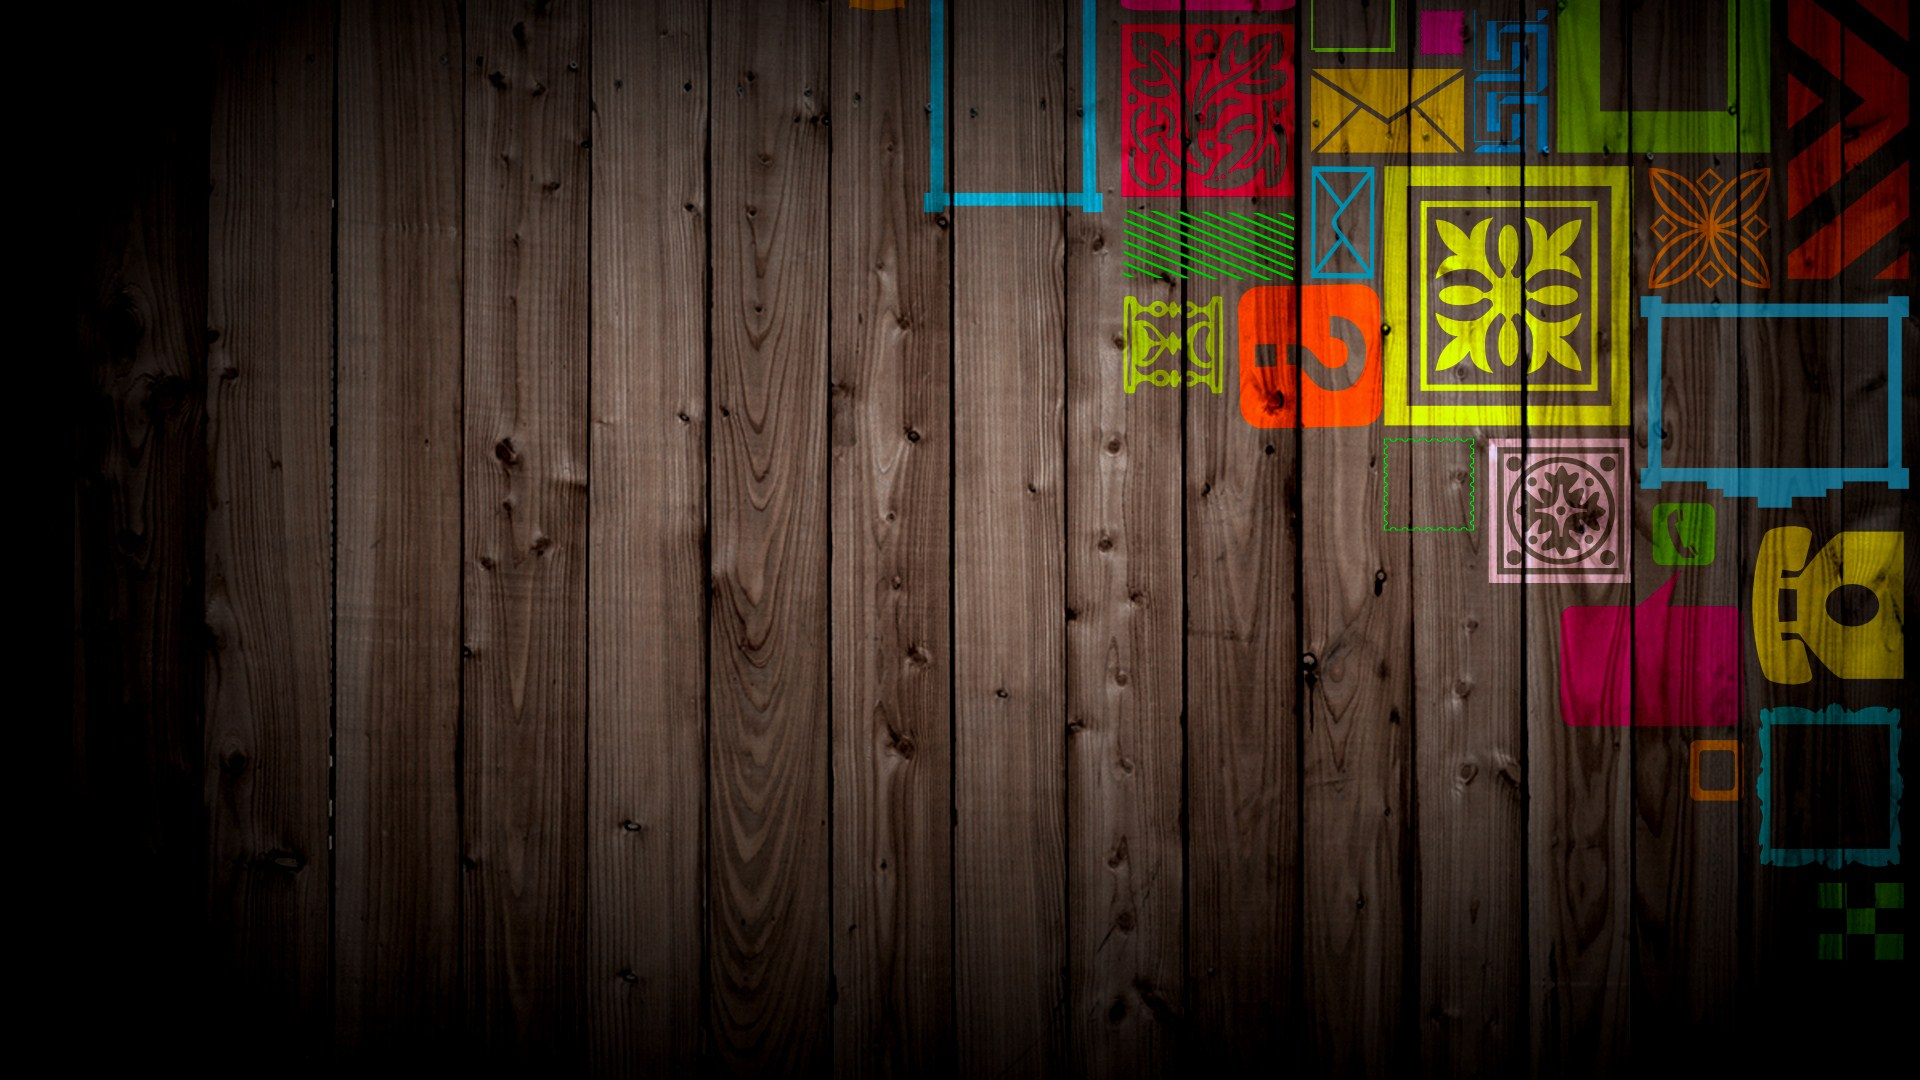
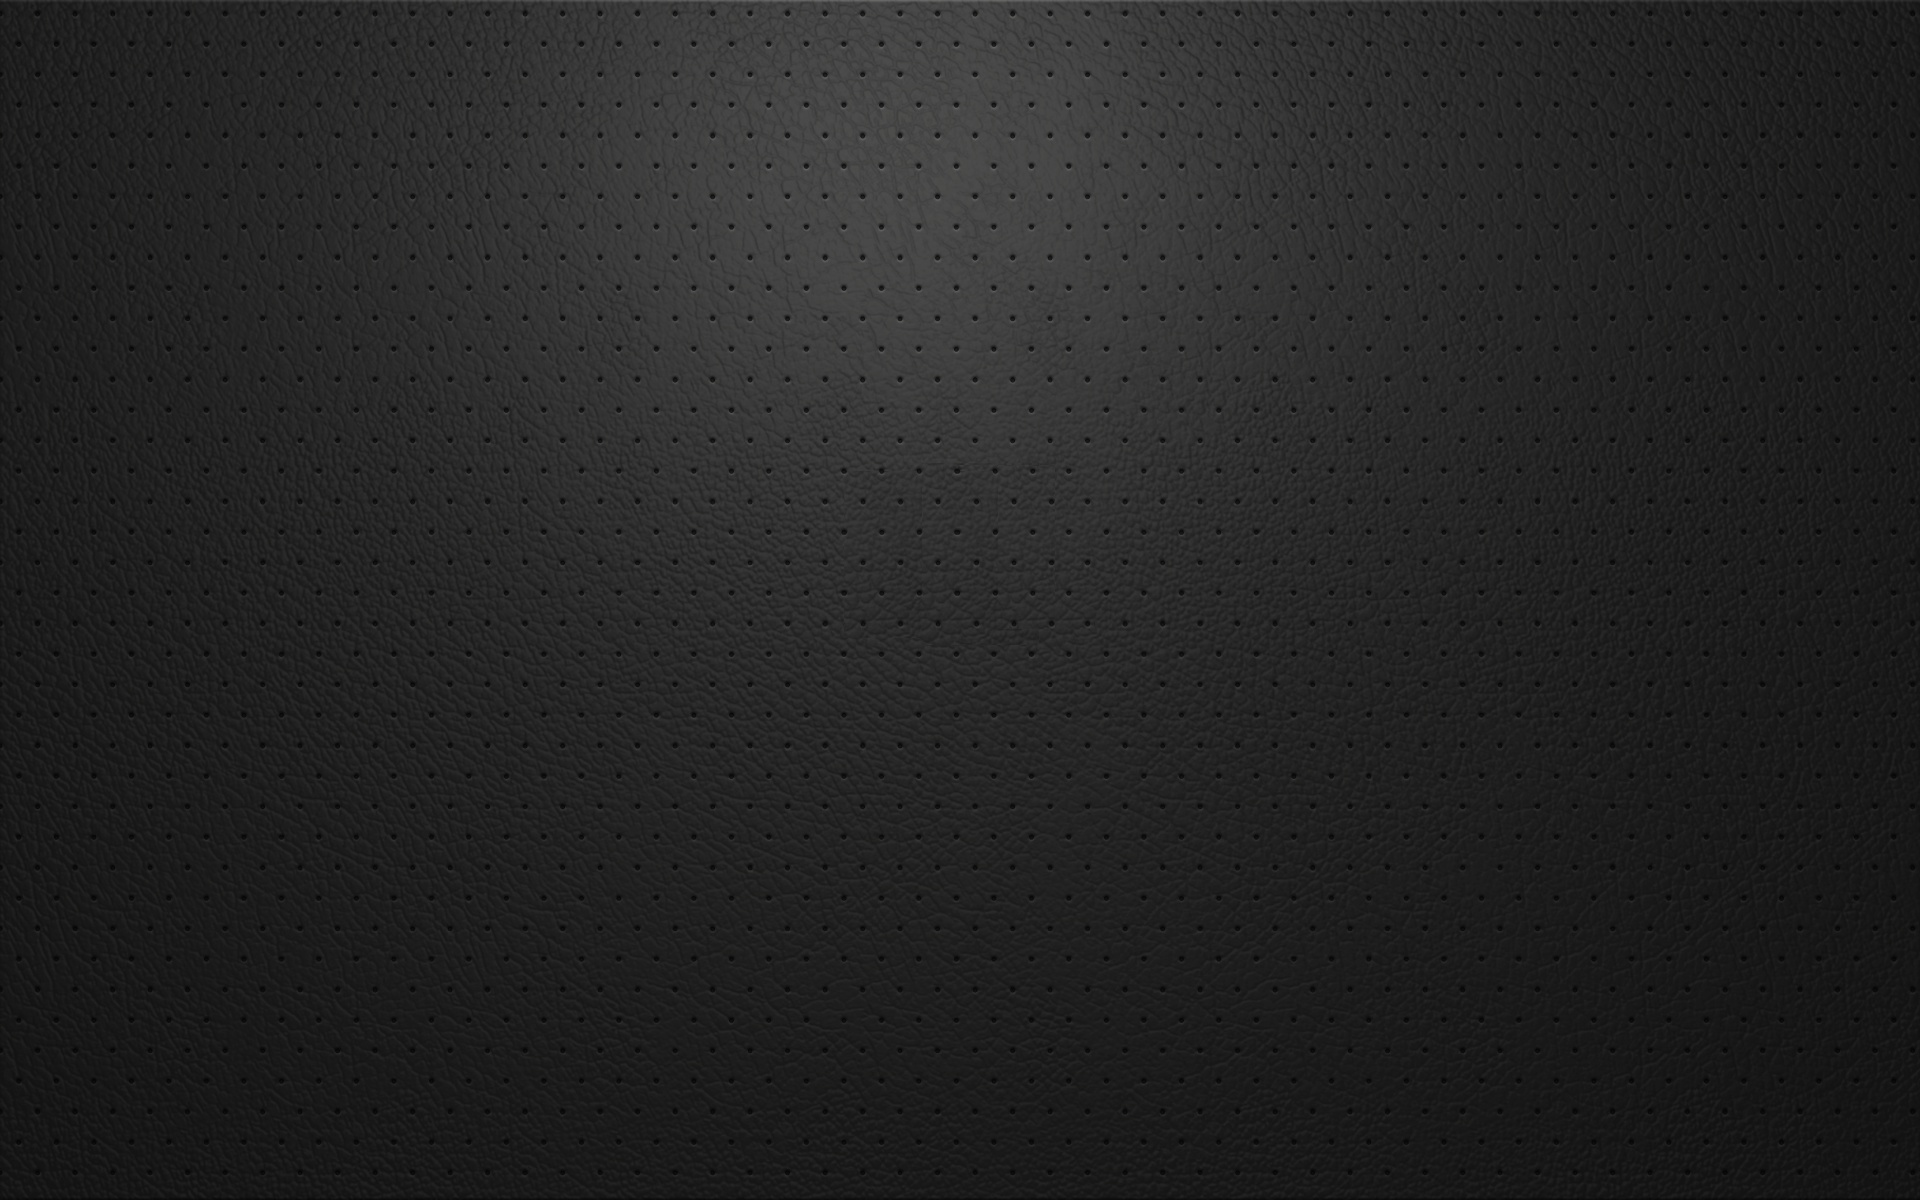
body background changes

diff --git a/js/jquery-ui.min.js b/js/jquery-ui.min.js
@@ -1,0 +1,6 @@
+/*! jQuery UI - v1.11.4 - 2016-01-11
+* http://jqueryui.com
+* Includes: effect.js, effect-bounce.js
+* Copyright jQuery Foundation and other contributors; Licensed MIT */
+
+(function(e){"function"==typeof define&&define.amd?define(["jquery"],e):e(jQuery)})(function(e){var t="ui-effects-",i=e;e.effects={effect:{}},function(e,t){function i(e,t,i){var s=d[t.type]||{};return null==e?i||!t.def?null:t.def:(e=s.floor?~~e:parseFloat(e),isNaN(e)?t.def:s.mod?(e+s.mod)%s.mod:0>e?0:e>s.max?s.max:e)}function s(i){var s=l(),n=s._rgba=[];return i=i.toLowerCase(),f(h,function(e,a){var o,r=a.re.exec(i),h=r&&a.parse(r),l=a.space||"rgba";return h?(o=s[l](h),s[u[l].cache]=o[u[l].cache],n=s._rgba=o._rgba,!1):t}),n.length?("0,0,0,0"===n.join()&&e.extend(n,a.transparent),s):a[i]}function n(e,t,i){return i=(i+1)%1,1>6*i?e+6*(t-e)*i:1>2*i?t:2>3*i?e+6*(t-e)*(2/3-i):e}var a,o="backgroundColor borderBottomColor borderLeftColor borderRightColor borderTopColor color columnRuleColor outlineColor textDecorationColor textEmphasisColor",r=/^([\-+])=\s*(\d+\.?\d*)/,h=[{re:/rgba?\(\s*(\d{1,3})\s*,\s*(\d{1,3})\s*,\s*(\d{1,3})\s*(?:,\s*(\d?(?:\.\d+)?)\s*)?\)/,parse:function(e){return[e[1],e[2],e[3],e[4]]}},{re:/rgba?\(\s*(\d+(?:\.\d+)?)\%\s*,\s*(\d+(?:\.\d+)?)\%\s*,\s*(\d+(?:\.\d+)?)\%\s*(?:,\s*(\d?(?:\.\d+)?)\s*)?\)/,parse:function(e){return[2.55*e[1],2.55*e[2],2.55*e[3],e[4]]}},{re:/#([a-f0-9]{2})([a-f0-9]{2})([a-f0-9]{2})/,parse:function(e){return[parseInt(e[1],16),parseInt(e[2],16),parseInt(e[3],16)]}},{re:/#([a-f0-9])([a-f0-9])([a-f0-9])/,parse:function(e){return[parseInt(e[1]+e[1],16),parseInt(e[2]+e[2],16),parseInt(e[3]+e[3],16)]}},{re:/hsla?\(\s*(\d+(?:\.\d+)?)\s*,\s*(\d+(?:\.\d+)?)\%\s*,\s*(\d+(?:\.\d+)?)\%\s*(?:,\s*(\d?(?:\.\d+)?)\s*)?\)/,space:"hsla",parse:function(e){return[e[1],e[2]/100,e[3]/100,e[4]]}}],l=e.Color=function(t,i,s,n){return new e.Color.fn.parse(t,i,s,n)},u={rgba:{props:{red:{idx:0,type:"byte"},green:{idx:1,type:"byte"},blue:{idx:2,type:"byte"}}},hsla:{props:{hue:{idx:0,type:"degrees"},saturation:{idx:1,type:"percent"},lightness:{idx:2,type:"percent"}}}},d={"byte":{floor:!0,max:255},percent:{max:1},degrees:{mod:360,floor:!0}},c=l.support={},p=e("<p>")[0],f=e.each;p.style.cssText="background-color:rgba(1,1,1,.5)",c.rgba=p.style.backgroundColor.indexOf("rgba")>-1,f(u,function(e,t){t.cache="_"+e,t.props.alpha={idx:3,type:"percent",def:1}}),l.fn=e.extend(l.prototype,{parse:function(n,o,r,h){if(n===t)return this._rgba=[null,null,null,null],this;(n.jquery||n.nodeType)&&(n=e(n).css(o),o=t);var d=this,c=e.type(n),p=this._rgba=[];return o!==t&&(n=[n,o,r,h],c="array"),"string"===c?this.parse(s(n)||a._default):"array"===c?(f(u.rgba.props,function(e,t){p[t.idx]=i(n[t.idx],t)}),this):"object"===c?(n instanceof l?f(u,function(e,t){n[t.cache]&&(d[t.cache]=n[t.cache].slice())}):f(u,function(t,s){var a=s.cache;f(s.props,function(e,t){if(!d[a]&&s.to){if("alpha"===e||null==n[e])return;d[a]=s.to(d._rgba)}d[a][t.idx]=i(n[e],t,!0)}),d[a]&&0>e.inArray(null,d[a].slice(0,3))&&(d[a][3]=1,s.from&&(d._rgba=s.from(d[a])))}),this):t},is:function(e){var i=l(e),s=!0,n=this;return f(u,function(e,a){var o,r=i[a.cache];return r&&(o=n[a.cache]||a.to&&a.to(n._rgba)||[],f(a.props,function(e,i){return null!=r[i.idx]?s=r[i.idx]===o[i.idx]:t})),s}),s},_space:function(){var e=[],t=this;return f(u,function(i,s){t[s.cache]&&e.push(i)}),e.pop()},transition:function(e,t){var s=l(e),n=s._space(),a=u[n],o=0===this.alpha()?l("transparent"):this,r=o[a.cache]||a.to(o._rgba),h=r.slice();return s=s[a.cache],f(a.props,function(e,n){var a=n.idx,o=r[a],l=s[a],u=d[n.type]||{};null!==l&&(null===o?h[a]=l:(u.mod&&(l-o>u.mod/2?o+=u.mod:o-l>u.mod/2&&(o-=u.mod)),h[a]=i((l-o)*t+o,n)))}),this[n](h)},blend:function(t){if(1===this._rgba[3])return this;var i=this._rgba.slice(),s=i.pop(),n=l(t)._rgba;return l(e.map(i,function(e,t){return(1-s)*n[t]+s*e}))},toRgbaString:function(){var t="rgba(",i=e.map(this._rgba,function(e,t){return null==e?t>2?1:0:e});return 1===i[3]&&(i.pop(),t="rgb("),t+i.join()+")"},toHslaString:function(){var t="hsla(",i=e.map(this.hsla(),function(e,t){return null==e&&(e=t>2?1:0),t&&3>t&&(e=Math.round(100*e)+"%"),e});return 1===i[3]&&(i.pop(),t="hsl("),t+i.join()+")"},toHexString:function(t){var i=this._rgba.slice(),s=i.pop();return t&&i.push(~~(255*s)),"#"+e.map(i,function(e){return e=(e||0).toString(16),1===e.length?"0"+e:e}).join("")},toString:function(){return 0===this._rgba[3]?"transparent":this.toRgbaString()}}),l.fn.parse.prototype=l.fn,u.hsla.to=function(e){if(null==e[0]||null==e[1]||null==e[2])return[null,null,null,e[3]];var t,i,s=e[0]/255,n=e[1]/255,a=e[2]/255,o=e[3],r=Math.max(s,n,a),h=Math.min(s,n,a),l=r-h,u=r+h,d=.5*u;return t=h===r?0:s===r?60*(n-a)/l+360:n===r?60*(a-s)/l+120:60*(s-n)/l+240,i=0===l?0:.5>=d?l/u:l/(2-u),[Math.round(t)%360,i,d,null==o?1:o]},u.hsla.from=function(e){if(null==e[0]||null==e[1]||null==e[2])return[null,null,null,e[3]];var t=e[0]/360,i=e[1],s=e[2],a=e[3],o=.5>=s?s*(1+i):s+i-s*i,r=2*s-o;return[Math.round(255*n(r,o,t+1/3)),Math.round(255*n(r,o,t)),Math.round(255*n(r,o,t-1/3)),a]},f(u,function(s,n){var a=n.props,o=n.cache,h=n.to,u=n.from;l.fn[s]=function(s){if(h&&!this[o]&&(this[o]=h(this._rgba)),s===t)return this[o].slice();var n,r=e.type(s),d="array"===r||"object"===r?s:arguments,c=this[o].slice();return f(a,function(e,t){var s=d["object"===r?e:t.idx];null==s&&(s=c[t.idx]),c[t.idx]=i(s,t)}),u?(n=l(u(c)),n[o]=c,n):l(c)},f(a,function(t,i){l.fn[t]||(l.fn[t]=function(n){var a,o=e.type(n),h="alpha"===t?this._hsla?"hsla":"rgba":s,l=this[h](),u=l[i.idx];return"undefined"===o?u:("function"===o&&(n=n.call(this,u),o=e.type(n)),null==n&&i.empty?this:("string"===o&&(a=r.exec(n),a&&(n=u+parseFloat(a[2])*("+"===a[1]?1:-1))),l[i.idx]=n,this[h](l)))})})}),l.hook=function(t){var i=t.split(" ");f(i,function(t,i){e.cssHooks[i]={set:function(t,n){var a,o,r="";if("transparent"!==n&&("string"!==e.type(n)||(a=s(n)))){if(n=l(a||n),!c.rgba&&1!==n._rgba[3]){for(o="backgroundColor"===i?t.parentNode:t;(""===r||"transparent"===r)&&o&&o.style;)try{r=e.css(o,"backgroundColor"),o=o.parentNode}catch(h){}n=n.blend(r&&"transparent"!==r?r:"_default")}n=n.toRgbaString()}try{t.style[i]=n}catch(h){}}},e.fx.step[i]=function(t){t.colorInit||(t.start=l(t.elem,i),t.end=l(t.end),t.colorInit=!0),e.cssHooks[i].set(t.elem,t.start.transition(t.end,t.pos))}})},l.hook(o),e.cssHooks.borderColor={expand:function(e){var t={};return f(["Top","Right","Bottom","Left"],function(i,s){t["border"+s+"Color"]=e}),t}},a=e.Color.names={aqua:"#00ffff",black:"#000000",blue:"#0000ff",fuchsia:"#ff00ff",gray:"#808080",green:"#008000",lime:"#00ff00",maroon:"#800000",navy:"#000080",olive:"#808000",purple:"#800080",red:"#ff0000",silver:"#c0c0c0",teal:"#008080",white:"#ffffff",yellow:"#ffff00",transparent:[null,null,null,0],_default:"#ffffff"}}(i),function(){function t(t){var i,s,n=t.ownerDocument.defaultView?t.ownerDocument.defaultView.getComputedStyle(t,null):t.currentStyle,a={};if(n&&n.length&&n[0]&&n[n[0]])for(s=n.length;s--;)i=n[s],"string"==typeof n[i]&&(a[e.camelCase(i)]=n[i]);else for(i in n)"string"==typeof n[i]&&(a[i]=n[i]);return a}function s(t,i){var s,n,o={};for(s in i)n=i[s],t[s]!==n&&(a[s]||(e.fx.step[s]||!isNaN(parseFloat(n)))&&(o[s]=n));return o}var n=["add","remove","toggle"],a={border:1,borderBottom:1,borderColor:1,borderLeft:1,borderRight:1,borderTop:1,borderWidth:1,margin:1,padding:1};e.each(["borderLeftStyle","borderRightStyle","borderBottomStyle","borderTopStyle"],function(t,s){e.fx.step[s]=function(e){("none"!==e.end&&!e.setAttr||1===e.pos&&!e.setAttr)&&(i.style(e.elem,s,e.end),e.setAttr=!0)}}),e.fn.addBack||(e.fn.addBack=function(e){return this.add(null==e?this.prevObject:this.prevObject.filter(e))}),e.effects.animateClass=function(i,a,o,r){var h=e.speed(a,o,r);return this.queue(function(){var a,o=e(this),r=o.attr("class")||"",l=h.children?o.find("*").addBack():o;l=l.map(function(){var i=e(this);return{el:i,start:t(this)}}),a=function(){e.each(n,function(e,t){i[t]&&o[t+"Class"](i[t])})},a(),l=l.map(function(){return this.end=t(this.el[0]),this.diff=s(this.start,this.end),this}),o.attr("class",r),l=l.map(function(){var t=this,i=e.Deferred(),s=e.extend({},h,{queue:!1,complete:function(){i.resolve(t)}});return this.el.animate(this.diff,s),i.promise()}),e.when.apply(e,l.get()).done(function(){a(),e.each(arguments,function(){var t=this.el;e.each(this.diff,function(e){t.css(e,"")})}),h.complete.call(o[0])})})},e.fn.extend({addClass:function(t){return function(i,s,n,a){return s?e.effects.animateClass.call(this,{add:i},s,n,a):t.apply(this,arguments)}}(e.fn.addClass),removeClass:function(t){return function(i,s,n,a){return arguments.length>1?e.effects.animateClass.call(this,{remove:i},s,n,a):t.apply(this,arguments)}}(e.fn.removeClass),toggleClass:function(t){return function(i,s,n,a,o){return"boolean"==typeof s||void 0===s?n?e.effects.animateClass.call(this,s?{add:i}:{remove:i},n,a,o):t.apply(this,arguments):e.effects.animateClass.call(this,{toggle:i},s,n,a)}}(e.fn.toggleClass),switchClass:function(t,i,s,n,a){return e.effects.animateClass.call(this,{add:i,remove:t},s,n,a)}})}(),function(){function i(t,i,s,n){return e.isPlainObject(t)&&(i=t,t=t.effect),t={effect:t},null==i&&(i={}),e.isFunction(i)&&(n=i,s=null,i={}),("number"==typeof i||e.fx.speeds[i])&&(n=s,s=i,i={}),e.isFunction(s)&&(n=s,s=null),i&&e.extend(t,i),s=s||i.duration,t.duration=e.fx.off?0:"number"==typeof s?s:s in e.fx.speeds?e.fx.speeds[s]:e.fx.speeds._default,t.complete=n||i.complete,t}function s(t){return!t||"number"==typeof t||e.fx.speeds[t]?!0:"string"!=typeof t||e.effects.effect[t]?e.isFunction(t)?!0:"object"!=typeof t||t.effect?!1:!0:!0}e.extend(e.effects,{version:"1.11.4",save:function(e,i){for(var s=0;i.length>s;s++)null!==i[s]&&e.data(t+i[s],e[0].style[i[s]])},restore:function(e,i){var s,n;for(n=0;i.length>n;n++)null!==i[n]&&(s=e.data(t+i[n]),void 0===s&&(s=""),e.css(i[n],s))},setMode:function(e,t){return"toggle"===t&&(t=e.is(":hidden")?"show":"hide"),t},getBaseline:function(e,t){var i,s;switch(e[0]){case"top":i=0;break;case"middle":i=.5;break;case"bottom":i=1;break;default:i=e[0]/t.height}switch(e[1]){case"left":s=0;break;case"center":s=.5;break;case"right":s=1;break;default:s=e[1]/t.width}return{x:s,y:i}},createWrapper:function(t){if(t.parent().is(".ui-effects-wrapper"))return t.parent();var i={width:t.outerWidth(!0),height:t.outerHeight(!0),"float":t.css("float")},s=e("<div></div>").addClass("ui-effects-wrapper").css({fontSize:"100%",background:"transparent",border:"none",margin:0,padding:0}),n={width:t.width(),height:t.height()},a=document.activeElement;try{a.id}catch(o){a=document.body}return t.wrap(s),(t[0]===a||e.contains(t[0],a))&&e(a).focus(),s=t.parent(),"static"===t.css("position")?(s.css({position:"relative"}),t.css({position:"relative"})):(e.extend(i,{position:t.css("position"),zIndex:t.css("z-index")}),e.each(["top","left","bottom","right"],function(e,s){i[s]=t.css(s),isNaN(parseInt(i[s],10))&&(i[s]="auto")}),t.css({position:"relative",top:0,left:0,right:"auto",bottom:"auto"})),t.css(n),s.css(i).show()},removeWrapper:function(t){var i=document.activeElement;return t.parent().is(".ui-effects-wrapper")&&(t.parent().replaceWith(t),(t[0]===i||e.contains(t[0],i))&&e(i).focus()),t},setTransition:function(t,i,s,n){return n=n||{},e.each(i,function(e,i){var a=t.cssUnit(i);a[0]>0&&(n[i]=a[0]*s+a[1])}),n}}),e.fn.extend({effect:function(){function t(t){function i(){e.isFunction(a)&&a.call(n[0]),e.isFunction(t)&&t()}var n=e(this),a=s.complete,r=s.mode;(n.is(":hidden")?"hide"===r:"show"===r)?(n[r](),i()):o.call(n[0],s,i)}var s=i.apply(this,arguments),n=s.mode,a=s.queue,o=e.effects.effect[s.effect];return e.fx.off||!o?n?this[n](s.duration,s.complete):this.each(function(){s.complete&&s.complete.call(this)}):a===!1?this.each(t):this.queue(a||"fx",t)},show:function(e){return function(t){if(s(t))return e.apply(this,arguments);var n=i.apply(this,arguments);return n.mode="show",this.effect.call(this,n)}}(e.fn.show),hide:function(e){return function(t){if(s(t))return e.apply(this,arguments);var n=i.apply(this,arguments);return n.mode="hide",this.effect.call(this,n)}}(e.fn.hide),toggle:function(e){return function(t){if(s(t)||"boolean"==typeof t)return e.apply(this,arguments);var n=i.apply(this,arguments);return n.mode="toggle",this.effect.call(this,n)}}(e.fn.toggle),cssUnit:function(t){var i=this.css(t),s=[];return e.each(["em","px","%","pt"],function(e,t){i.indexOf(t)>0&&(s=[parseFloat(i),t])}),s}})}(),function(){var t={};e.each(["Quad","Cubic","Quart","Quint","Expo"],function(e,i){t[i]=function(t){return Math.pow(t,e+2)}}),e.extend(t,{Sine:function(e){return 1-Math.cos(e*Math.PI/2)},Circ:function(e){return 1-Math.sqrt(1-e*e)},Elastic:function(e){return 0===e||1===e?e:-Math.pow(2,8*(e-1))*Math.sin((80*(e-1)-7.5)*Math.PI/15)},Back:function(e){return e*e*(3*e-2)},Bounce:function(e){for(var t,i=4;((t=Math.pow(2,--i))-1)/11>e;);return 1/Math.pow(4,3-i)-7.5625*Math.pow((3*t-2)/22-e,2)}}),e.each(t,function(t,i){e.easing["easeIn"+t]=i,e.easing["easeOut"+t]=function(e){return 1-i(1-e)},e.easing["easeInOut"+t]=function(e){return.5>e?i(2*e)/2:1-i(-2*e+2)/2}})}(),e.effects,e.effects.effect.bounce=function(t,i){var s,n,a,o=e(this),r=["position","top","bottom","left","right","height","width"],h=e.effects.setMode(o,t.mode||"effect"),l="hide"===h,u="show"===h,d=t.direction||"up",c=t.distance,p=t.times||5,f=2*p+(u||l?1:0),m=t.duration/f,g=t.easing,v="up"===d||"down"===d?"top":"left",y="up"===d||"left"===d,b=o.queue(),_=b.length;for((u||l)&&r.push("opacity"),e.effects.save(o,r),o.show(),e.effects.createWrapper(o),c||(c=o["top"===v?"outerHeight":"outerWidth"]()/3),u&&(a={opacity:1},a[v]=0,o.css("opacity",0).css(v,y?2*-c:2*c).animate(a,m,g)),l&&(c/=Math.pow(2,p-1)),a={},a[v]=0,s=0;p>s;s++)n={},n[v]=(y?"-=":"+=")+c,o.animate(n,m,g).animate(a,m,g),c=l?2*c:c/2;l&&(n={opacity:0},n[v]=(y?"-=":"+=")+c,o.animate(n,m,g)),o.queue(function(){l&&o.hide(),e.effects.restore(o,r),e.effects.removeWrapper(o),i()}),_>1&&b.splice.apply(b,[1,0].concat(b.splice(_,f+1))),o.dequeue()}});

diff --git a/js/teams-script.js b/js/teams-script.js
@@ -5,6 +5,12 @@ var quizRTData = {
 };
 
 (function($){
+
+	// To select the backgrounds randomly
+	var url = 'url(images/backgrounds/' + Math.floor(Math.random()*3) + '.png)';
+	document.body.style.backgroundImage = url;
+
+
 	var tile_colors = ['#2672EC' , '#5133AB' , '#AC193D' , '#D24726' , '#008A00' , '#00A3A3'];
 	$.getJSON('resources/user1_teams.json').done( function(data) {
 		quizRTData.teamsData = data;
@@ -70,14 +76,12 @@ var quizRTData = {
 						// Create the carousel indicators
 						var indicator = $('<li data-target="#' + rowCarousel.attr('id') + '" data-slide-to="' + a + '"></li>');
 
-						console.log("a = " + a);
 						if (a == 0) {
 							newRowItem.addClass('active'); // To make the first slide visible
 							indicator.addClass('active');
 							for (var b = 0; b < splitContent[a].length; b++) {
 								newRowItem.append( splitContent[a][b] );
 							}
-							console.log(newRowItem);
 							rowCarouselInner.append( newRowItem );
 						} else {
 							// var newItem = rowItem.clone(true).html('');
@@ -85,7 +89,6 @@ var quizRTData = {
 							for (var b = 0; b < splitContent[a].length; b++) {
 								newRowItem.append( splitContent[a][b] );
 							}
-							console.log(newRowItem);
 							rowCarouselInner.append( newRowItem );
 						}
 						carouselIndicatorContainer.append( indicator ); // add the indicator to the container
@@ -104,23 +107,12 @@ var quizRTData = {
     }// end for
 	} // End constructRowsAndTiles
 
-	$('#btnRedraw').on('click', function () {
-		forceRedraw($('.carousel-inner .item').eq(0)[0]);
-	});
 
-	var forceRedraw = function ( element ) {
-		if( !element )
-			return;
+	// To create the bounce effect when a Tile is clicked
+	$('#teams-wrap').on('click', '.tile', function() {
+		$(this).effect( "bounce", {distance:10,times:1},350);
+	} );
 
-		var n = document.createTextNode(' ');
-		var disp = element.style.display;
-		element.appendChild(n);
-		element.style.display = 'none';
-		setTimeout( function() {
-			element.style.display = disp;
-			n.parentNode.removeChild(n);
-		}, 20 );
-	};
 	/*...........................................................................
 			Event handlers for Next and Back buttons in createTeamModal window
 ..............................................................................*/
@@ -169,5 +161,23 @@ var quizRTData = {
 			quizRTData.displaySize = 'small';
 		}
 	});
+
+	$('#btnRedraw').on('click', function () {
+		forceRedraw($('.carousel-inner .item').eq(0)[0]);
+	});
+
+	var forceRedraw = function ( element ) {
+		if( !element )
+			return;
+
+		var n = document.createTextNode(' ');
+		var disp = element.style.display;
+		element.appendChild(n);
+		element.style.display = 'none';
+		setTimeout( function() {
+			element.style.display = disp;
+			n.parentNode.removeChild(n);
+		}, 20 );
+	};
 
 })(jQuery);

diff --git a/css/teams-style.css b/css/teams-style.css
@@ -153,18 +153,17 @@
   cursor: pointer;
 }
 .tile {
-  background: rgba(120,140,150,.7); /* bluish transparent */
   margin: 2px -12px; /* to remove 15px padding and add 4px space b/w tiles */
   text-align: center;
 }
 .tile:hover {
   cursor: pointer;
-  transform: translate(-3px,-3px);
 }
 .tile:active {
-  transform: translate(0,0);
+  opacity: .7;
 }
 .tile p {
+  background: rgba(120,140,150,.3); /* bluish transparent */
   padding: 5px 0;
   margin-bottom: 0;
 }
@@ -233,11 +232,5 @@
   .tile p {
     padding: 2px 0;
   }
-  .tile:hover {
-    cursor: pointer;
-    transform: translate(0,0);
-  }
-  .tile:active {
-    opacity: .6
-  }
+  
 }

diff --git a/teams.html b/teams.html
@@ -351,7 +351,8 @@
     <!-- <script src="http://code.jquery.com/jquery.js"></script> -->
     <!-- <script>window.jQuery || document.write('<script src="js/jquery-2.1.4.min.js"><\/script>')</script> -->
     <script src="js/jquery-2.1.4.min.js"></script>
+    <script src="js/jquery-ui.min.js"></script>
     <script src="js/bootstrap.min.js"></script>
-    <script src="js/script.js"></script>
+    <script src="js/teams-script.js"></script>
   </body>
 </html>

diff --git a/index.html b/index.html
@@ -66,6 +66,6 @@
     <!-- <script>window.jQuery || document.write('<script src="js/jquery-2.1.4.min.js"><\/script>')</script> -->
     <script src="js/jquery-2.1.4.min.js"></script>
     <script src="js/bootstrap.min.js"></script>
-    <script src="js/script.js"></script>
+    <script src="js/quizrtgame-script.js"></script>
   </body>
 </html>

diff --git a/css/quizrtgame-style.css b/css/quizrtgame-style.css
@@ -1,6 +1,6 @@
 body {
   background-color: #293a46;
-  background-image: url('../images/backgrounds/1.png');
+  background-image: url('../images/backgrounds/0.png');
   background-attachment: fixed;
   background-position: center;
   background-size: cover;

diff --git a/js/quizrtgame-script.js b/js/quizrtgame-script.js
@@ -1,0 +1,7 @@
+(function () {
+
+    // To select the backgrounds randomly
+    var url = 'url(images/backgrounds/' + Math.floor(Math.random()*3) + '.png)';
+    document.body.style.backgroundImage = url;
+
+  })();
